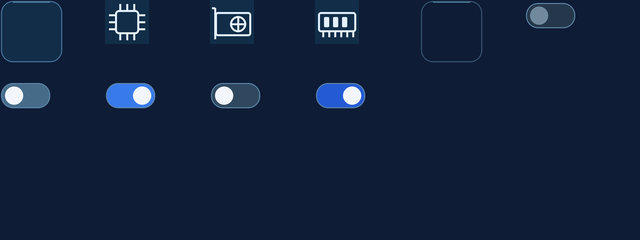
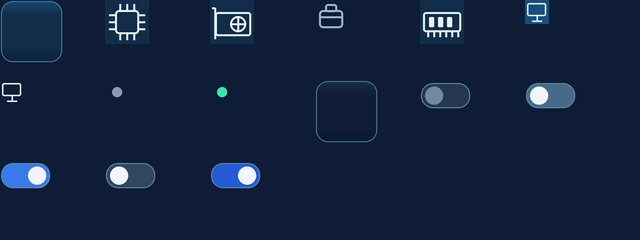
Polish Fabric dashboard materials and native node details

diff --git a/sdk/python/infinity_uikit_dashboard_artwork.py b/sdk/python/infinity_uikit_dashboard_artwork.py
@@ -1,2 +1,2 @@
 """Generated from UIKit fabric-workspace SVG assets."""
[2 lines of base64/hex data omitted]

diff --git a/runtime/install/System/infinity-fabric.py b/runtime/install/System/infinity-fabric.py
@@ -44,9 +44,9 @@ class FabricManager:
         style.configure('Fabric.Treeview', background=COLORS['panel'], fieldbackground=COLORS['panel'],
                         foreground=COLORS['text'], font=font, rowheight=40, borderwidth=0,
                         lightcolor=COLORS['panel'], darkcolor=COLORS['panel'], bordercolor=COLORS['panel'])
-        style.configure('Fabric.Treeview.Heading', background=COLORS['panel'], foreground=COLORS['text'], font=font,
+        style.configure('Fabric.Treeview.Heading', background='#19334E', foreground=COLORS['text'], font=('Inter',-16,'bold'), padding=(8,4),
                         lightcolor=COLORS['panel'], darkcolor=COLORS['panel'], bordercolor=COLORS['border'], relief='flat')
-        style.map('Fabric.Treeview', background=[('selected', COLORS['accent'])])
+        style.map('Fabric.Treeview', background=[('selected', '#164F79')], foreground=[('selected','#FFFFFF')])
         self.images = workspace_controls(root, style, 1.0)
         self.dashboard_images = dashboard_controls(root, style)
         style.configure('Workspace.TMenubutton', background=COLORS['panel'], borderwidth=0,
@@ -98,9 +98,9 @@ class FabricManager:
         center.grid(row=1, column=0, sticky='nsew')
         ttk.Label(center, text='Nodes', font=('Inter',-22,'bold'), padding=(8,4)).pack(anchor='w')
         self.nodes = ttk.Treeview(center, columns=('state','cpu','memory','trust'), show='tree headings', style='Fabric.Treeview', selectmode='browse', height=2)
-        self.nodes.heading('#0', text='Node'); self.nodes.column('#0', width=140, minwidth=120)
-        for key, label, width in [('state','Connection',100),('cpu','CPU slots',80),('memory','Memory',110),('trust','Trust',80)]:
-            self.nodes.heading(key,text=label); self.nodes.column(key,width=width,minwidth=80)
+        self.nodes.heading('#0', text='Node',anchor='w'); self.nodes.column('#0', width=160, minwidth=140)
+        for key, label, width in [('state','Connection',100),('cpu','CPU slots',80),('memory','Memory',100),('trust','Trust',80)]:
+            self.nodes.heading(key,text=label,anchor='w'); self.nodes.column(key,width=width,minwidth=80)
         self.node_scroll = ttk.Scrollbar(center, orient='vertical', command=self.nodes.yview)
         self.node_scroll.pack(side='right', fill='y')
         self.nodes.configure(yscrollcommand=self.node_scroll.set)
@@ -118,15 +118,16 @@ class FabricManager:
         self.cancel_button.pack(side='right')
         self.jobs = ttk.Treeview(jobs_panel, columns=('node','state','cpu','memory'),
                                 show='tree headings', style='Fabric.Treeview', height=2)
-        self.jobs.heading('#0', text='Job'); self.jobs.column('#0', width=90, minwidth=60)
+        self.jobs.heading('#0', text='Job',anchor='w'); self.jobs.column('#0', width=90, minwidth=60)
         for key,label,width in [('node','Node',140),('state','Status',120),('cpu','CPU units',90),('memory','Reserved memory',150)]:
-            self.jobs.heading(key,text=label); self.jobs.column(key,width=width,minwidth=70)
+            self.jobs.heading(key,text=label,anchor='w'); self.jobs.column(key,width=width,minwidth=70)
         job_scroll = ttk.Scrollbar(jobs_panel, orient='vertical', command=self.jobs.yview)
         job_scroll.pack(side='right',fill='y')
         self.jobs.configure(yscrollcommand=job_scroll.set)
         self.jobs.bind('<<TreeviewSelect>>', self.select_job)
         self.job_status = tk.StringVar()
-        ttk.Label(jobs_panel,textvariable=self.job_status).pack(side='bottom',anchor='w',pady=(4,0))
+        self.empty_jobs = ttk.Label(self.jobs,textvariable=self.job_status,image=self.dashboard_images['jobs'],compound='top',justify='center',padding=8)
+        self.empty_jobs.place(relx=.5,rely=.65,anchor='center')
         self.jobs.pack(fill='both',expand=True)
         inspector_host = ttk.Frame(body, width=280)
         inspector_host.grid(row=0,column=1,rowspan=3,sticky='ns',padx=(12,0))
@@ -143,7 +144,7 @@ class FabricManager:
         inspector.bind('<Configure>', self.inspector_layout)
         self.inspector_canvas.bind('<Configure>', self.inspector_layout)
         inspector.columnconfigure(0, weight=1)
-        ttk.Label(inspector,text='This computer',font=('Inter',-20,'bold')).grid(row=0,column=0,columnspan=2,sticky='w',pady=(0,12))
+        ttk.Label(inspector,text='This computer',image=self.dashboard_images['monitor'],compound='left',font=('Inter',-20,'bold')).grid(row=0,column=0,columnspan=2,sticky='w',pady=(0,12))
         self.enabled = tk.BooleanVar()
         self.cpu = tk.StringVar(); self.memory = tk.StringVar(); self.tasks = tk.StringVar()
         self.toggle = ttk.Checkbutton(inspector,text='Contribute resources',variable=self.enabled,command=self.mark_dirty,style='Dashboard.TCheckbutton')
@@ -160,9 +161,19 @@ class FabricManager:
         ttk.Button(inspector,text='Discard edits',command=self.reload_policy).grid(row=11,column=0,columnspan=2,sticky='ew',pady=(0,12))
         self.usage = tk.StringVar()
         ttk.Label(inspector,textvariable=self.usage,wraplength=240).grid(row=12,column=0,columnspan=2,sticky='w')
-        ttk.Label(inspector,text='Selected node',font=('Inter',-20,'bold')).grid(row=13,column=0,columnspan=2,sticky='w',pady=(12,8))
+        ttk.Separator(inspector,orient='horizontal').grid(row=13,column=0,columnspan=2,sticky='ew',pady=(12,12))
+        ttk.Label(inspector,text='Selected node details',font=('Inter',-20,'bold')).grid(row=14,column=0,columnspan=2,sticky='w',pady=(0,12))
+        self.node_fields={}
+        self.node_field_labels={}
+        for row,label in enumerate(('Identity','Trust','Connection'),15):
+            ttk.Label(inspector,text=label).grid(row=row,column=0,sticky='w',pady=6)
+            value=tk.StringVar(value='—'); self.node_fields[label]=value
+            field=ttk.Label(inspector,textvariable=value,wraplength=132,compound='left')
+            field.grid(row=row,column=1,sticky='w',pady=6)
+            self.node_field_labels[label]=field
+        ttk.Separator(inspector,orient='horizontal').grid(row=18,column=0,columnspan=2,sticky='ew',pady=12)
         self.node_detail = tk.StringVar(value='Select a node to inspect it.')
-        ttk.Label(inspector,textvariable=self.node_detail,wraplength=220,justify='left').grid(row=14,column=0,columnspan=2,sticky='w')
+        ttk.Label(inspector,textvariable=self.node_detail,wraplength=220,justify='left').grid(row=19,column=0,columnspan=2,sticky='w')
         self.refresh()
         root.after(2000,self.tick)
 
@@ -219,7 +230,7 @@ class FabricManager:
                 values = (node['reachability'],str(cpu['available']),size(memory['available']),node['trust'])
                 label = 'This computer' if node['local'] else ident[:12]
                 if self.nodes.exists(ident): self.nodes.item(ident,text=label,values=values)
-                else: self.nodes.insert('', 'end', iid=ident,text=label,values=values)
+                else: self.nodes.insert('', 'end', iid=ident,text=label,values=values,image=self.dashboard_images['monitor'])
             for ident in self.nodes.get_children():
                 if ident not in present: self.nodes.delete(ident)
             total = snapshot['totals']
@@ -262,7 +273,9 @@ class FabricManager:
                 self.nodes.selection_set(self.nodes.get_children()[0])
             self.select()
             self.select_job()
-            self.status.set(self.notice or f"{len(snapshot['nodes'])} nodes • Live resource observations")
+            if self.jobs.get_children(): self.empty_jobs.place_forget()
+            else: self.empty_jobs.place(relx=.5,rely=.65,anchor='center')
+            self.status.set(self.notice or f"{len(snapshot['nodes'])} nodes | Live resource observations")
         except (OSError,ValueError,KeyError) as error:
             self.snapshot = None
             self.job_records = {}
@@ -273,6 +286,8 @@ class FabricManager:
             for value in self.totals: value.set('Unavailable')
             for control in [self.toggle,self.apply_button]+self.entries:
                 control.configure(state='disabled')
+            self.job_status.set('Job service unavailable.')
+            self.empty_jobs.place(relx=.5,rely=.65,anchor='center')
             self.status.set(f'Fabric service unavailable: {error}')
 
     # ------------------------=
@@ -281,7 +296,11 @@ class FabricManager:
     # ------------------=
     def select(self, event=None):
         selected = self.nodes.selection()
+        for ident in self.nodes.get_children():
+            self.nodes.item(ident,image=self.dashboard_images['monitor-selected' if ident in selected else 'monitor'])
         self.selected_node = None
+        for value in self.node_fields.values(): value.set('—')
+        self.node_field_labels['Connection'].configure(image='')
         if not selected or not self.snapshot:
             self.detail.set('Select a node to inspect its resources.')
             self.node_detail.set('Select a node to inspect it.')
@@ -290,10 +309,15 @@ class FabricManager:
         if node:
             self.selected_node = node
             self.detail.set(f"{node['id'][:12]} · {node['trust']} · {node['reachability']}")
-            lines = [node['id'], f"{node['reachability']} · {node['trust']}"]
+            self.node_fields['Identity'].set('This computer' if node['local'] else node['id'][:12])
+            self.node_fields['Trust'].set(node['trust'])
+            self.node_fields['Connection'].set(node['reachability'])
+            self.node_field_labels['Connection'].configure(image=self.dashboard_images['online' if node['reachability']=='Online' else 'offline'])
+            lines = []
             for label, resource, formatter in zip(('CPU slots','Memory allowance','Accelerators'),node['resources'],(str,size,str)):
                 lines.append(f"\n{label}\n{formatter(resource['available'])} available / {formatter(resource['capacity'])} advertised\n"
                              f"{formatter(resource['provider_reserved'])} provider reserved\n{formatter(resource['consumer_reserved'])} consumer reserved")
+            lines.append('\nNode identity\n'+node['id'])
             self.node_detail.set('\n'.join(lines))
 
     # ------------------------=

diff --git a/tools/native-python/uikit-dashboard.py b/tools/native-python/uikit-dashboard.py
@@ -4,7 +4,7 @@ import base64
 import os
 import xml.etree.ElementTree as ET
 import zlib
-from PIL import Image, ImageDraw
+from PIL import Image, ImageDraw, ImageColor
 
 ROOT = Path(__file__).resolve().parents[2]
 FOLDER = ROOT / 'assets/ui-design-kit/default/fabric-workspace'
@@ -18,13 +18,32 @@ def render(path):
     w,h = int(svg.get('width')),int(svg.get('height'))
     image = Image.new('RGB',(w*4,h*4),svg.get('data-backdrop','#0E1C36'))
     draw = ImageDraw.Draw(image)
+    gradients={}
+    for definition in svg.findall('.//{*}linearGradient'):
+        gradients[definition.get('id')]=[(float(stop.get('offset').rstrip('%'))/100, ImageColor.getrgb(stop.get('stop-color'))) for stop in definition]
     for shape in svg:
         a=shape.attrib; kind=shape.tag.split('}')[-1]
+        if kind=='defs': continue
         fill=None if a.get('fill','none')=='none' else a['fill']
+        gradient=gradients.get(fill[5:-1]) if fill and fill.startswith('url(#') else None
+        if gradient: fill=None
         stroke=a.get('stroke'); width=round(float(a.get('stroke-width',1))*4)
         if kind=='rect':
             x,y=float(a.get('x',0)),float(a.get('y',0)); sw,sh=float(a['width']),float(a['height'])
-            draw.rounded_rectangle((x*4,y*4,(x+sw)*4,(y+sh)*4),radius=float(a.get('rx',0))*4,fill=fill,outline=stroke,width=width)
+            bounds=(x*4,y*4,(x+sw)*4,(y+sh)*4)
+            if gradient:
+                layer=Image.new('RGB',image.size); paint=ImageDraw.Draw(layer)
+                mask=Image.new('L',image.size); ImageDraw.Draw(mask).rounded_rectangle(bounds,radius=float(a.get('rx',0))*4,fill=255)
+                for row in range(round(y*4),round((y+sh)*4)+1):
+                    t=(row-y*4)/(sh*4)
+                    start,end=gradient[0],gradient[-1]
+                    for lo,hi in zip(gradient,gradient[1:]):
+                        if lo[0]<=t<=hi[0]: start,end=lo,hi; break
+                    f=max(0,min(1,(t-start[0])/max(.0001,end[0]-start[0])))
+                    color=tuple(round(a+(b-a)*f) for a,b in zip(start[1],end[1]))
+                    paint.line((0,row,w*4,row),fill=color)
+                image.paste(layer,(0,0),mask)
+            draw.rounded_rectangle(bounds,radius=float(a.get('rx',0))*4,fill=fill,outline=stroke,width=width)
         elif kind=='circle':
             x,y,r=float(a['cx']),float(a['cy']),float(a['r'])
             draw.ellipse(((x-r)*4,(y-r)*4,(x+r)*4,(y+r)*4),fill=fill,outline=stroke,width=width)

diff --git a/tools/fabric-manager-test.py b/tools/fabric-manager-test.py
@@ -54,6 +54,8 @@ try:
     assert app.nodes.bbox(node), 'First node must be visible at minimum display size'
     assert app.nodes.winfo_height() >= 80
     assert app.jobs.winfo_height() >= 60
+    assert app.empty_jobs.winfo_manager() == 'place'
+    assert str(app.node_field_labels['Connection'].cget('image')[0]) == str(app.dashboard_images['online'])
     app.inspector_canvas.yview_moveto(1.0); root.update()
     assert app.inspector_canvas.yview()[1] > .99
     root.maxsize(1600, 1000)
@@ -67,6 +69,7 @@ try:
     jobs.append({'id':1,'epoch':1,'state':3,'cpu':2,'memory':1048576,'node':'01'*32})
     app.refresh()
     assert app.jobs.get_children() == ('1',)
+    assert not app.empty_jobs.winfo_manager()
     app.jobs.selection_set('1')
     app.select_job()
     assert not app.cancel_button.instate(['disabled'])
@@ -81,6 +84,7 @@ try:
     assert app.jobs.selection() == ('1',)
     jobs.clear(); app.refresh()
     assert not app.jobs.get_children()
+    assert app.empty_jobs.winfo_manager() == 'place'
     node=state['nodes'][0]['id']
     app.nodes.selection_set(node);app.select()
     assert app.selected_node['id']==node

diff --git a/tools/uikit-dashboard-test.py b/tools/uikit-dashboard-test.py
@@ -15,6 +15,9 @@ for name,(width,height,data) in SPRITES.items():
     assert raster.tobytes()==zlib.decompress(base64.b64decode(data))
 assert SPRITES['toggle-on'][2]!=SPRITES['toggle-off'][2]
 assert SPRITES['toggle-on'][2]!=SPRITES['toggle-hover-on'][2]
+surface=render(ROOT/'assets/ui-design-kit/default/fabric-workspace/card.svg')
+assert surface.getpixel((32,6)) != surface.getpixel((32,32))
+assert surface.getpixel((32,32)) != surface.getpixel((32,58))
 package=runpy.run_path(str(ROOT/'tools/package-sdk.py'))
 manifest,payloads,entries=package['catalog']()
 for filename in ('infinity_uikit_dashboard.py','infinity_uikit_dashboard_artwork.py'):

diff --git a/tools/fabric-manager-installed-test.py b/tools/fabric-manager-installed-test.py
@@ -114,6 +114,10 @@ def main():
             guest.screenshot('fabric-manager-'+label)
             receipt['window_states'].append({'state': gui[13], 'geometry': gui[9:13]})
         assert gui[9:13] == original_geometry
+        # Page the independent inspector to expose the real node details.
+        native.adaptive_click(guest, gui[9]+gui[11]-22, gui[10]+gui[12]-100)
+        time.sleep(1)
+        guest.screenshot('fabric-manager-inspector')
         receipt['complete'] = True
     except BaseException as error:
         receipt['failure'] = repr(error)

diff --git a/assets/ui-design-kit/default/fabric-workspace/README.md b/assets/ui-design-kit/default/fabric-workspace/README.md
@@ -11,8 +11,7 @@ fixed 36px application menu, never a second title bar.
 Menu 36px; toolbar 48px; outer inset 16px; gutter 12px. Right inspector 280px,
 scrollable independently. Center resource cards precede Nodes and Job activity.
 Nodes receive three fifths of flexible vertical space; jobs two fifths. Card
-interior #112D48, inspector #0E1C36, steel border #365774, selected row uses the
-active Studio accent. Inter 16px body, 20–22px section headings, 24px totals.
+interior #112D48, inspector #0E1C36, steel border #48779D, selected row #164F79. Inter 16px body, 20–22px section headings, 24px totals.
 Icons are 44px with 12px spacing. Below 690px center width the decorative icons
 hide, preserving all values and fixed text sizes. Tables scroll rather than
 compressing headers. The inspector retains its width at normal/maximized sizes.
@@ -26,7 +25,9 @@ Dashboard.TCheckbutton. Native ttk keyboard, focus, state and command semantics
 remain authoritative. Toggle states are off/on/hover-off/hover-on/disabled.
 No animation timers or application-specific event loop is added.
 
-SVG source is limited to rect, circle and line primitives. The build compiler
+SVG source supports rect, circle, line and vertical linear-gradient fills.
+Gradients fade into a flat center so nine-slice expansion preserves the material
+without stretching corner highlights. The build compiler
 `tools/native-python/uikit-dashboard.py` renders at 4x and downsamples, then emits
 PPM-compatible compressed RGB for native Tk. Panel nine-slices reserve 16px on
 all edges. Do not scale corner radii with window geometry. Standard buttons,
@@ -58,3 +59,29 @@ the mandatory compositor/application separation instead of the generated board's
 combined title/menu. Visual acceptance remains open; stop speculative correction
 under the repository's six-loop limit. This diagnostic kernel is not a published
 installer, and this UI does not establish arbitrary CPU/RAM/GPU pooling.
+
+### Follow-up visual pass
+
+Reopened by the user to resolve the remaining differences and publish ARM only.
+Panels now use sapphire gradient shoulders, tables use filled bold headers and
+a restrained sapphire selection, and the inspector separates identity, trust
+and connection from resource reservations. Full node identifiers remain in the
+scrollable details. Studio button overrides and compositor chrome remain the
+authority. A centered SVG job-empty state and online/offline connection indicators
+are included. Table headings align with their values. The small-screen layout
+keeps the inspector independently scrollable rather than shrinking controls.
+
+Follow-up verification:
+- Host controls: `builds/manifests/20261126T015314964086Z-37314.json`.
+- SVG pixels and SDK/install parity: `builds/manifests/20261126T015325361897Z-37323.json`.
+- Installed ARM normal/maximized/restored and inspector review:
+  `builds/manifests/20261126T015638555918Z-38260.json` (launch 1.18 seconds).
+- Selection-state monitor artwork removes the contrasting rectangle on selected rows.
+
+Reviewed native output preserves the kit's card hierarchy, corner geometry,
+fixed typography, sapphire surfaces, filled headers, and structured inspector.
+The generated reference is not a pixel-identical screenshot: compositor-owned
+chrome, user-selected button styles, and small-screen reflow intentionally follow
+the shared application-workspace rules. Do not describe this as measured 100%
+pixel parity. Core arbitrary-workload CPU/RAM/GPU pooling remains separate from
+these UI changes; x86 release remains on hold.
